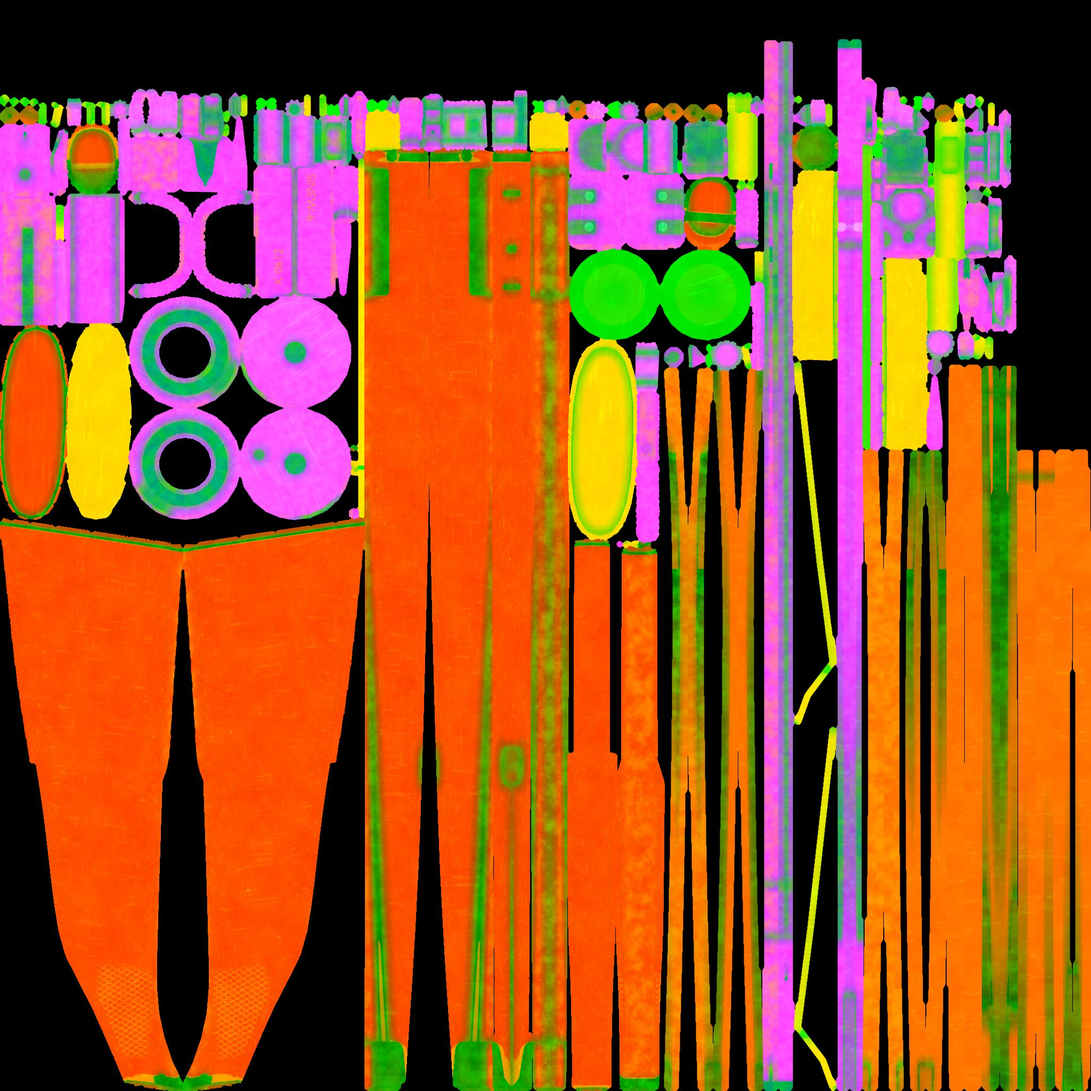
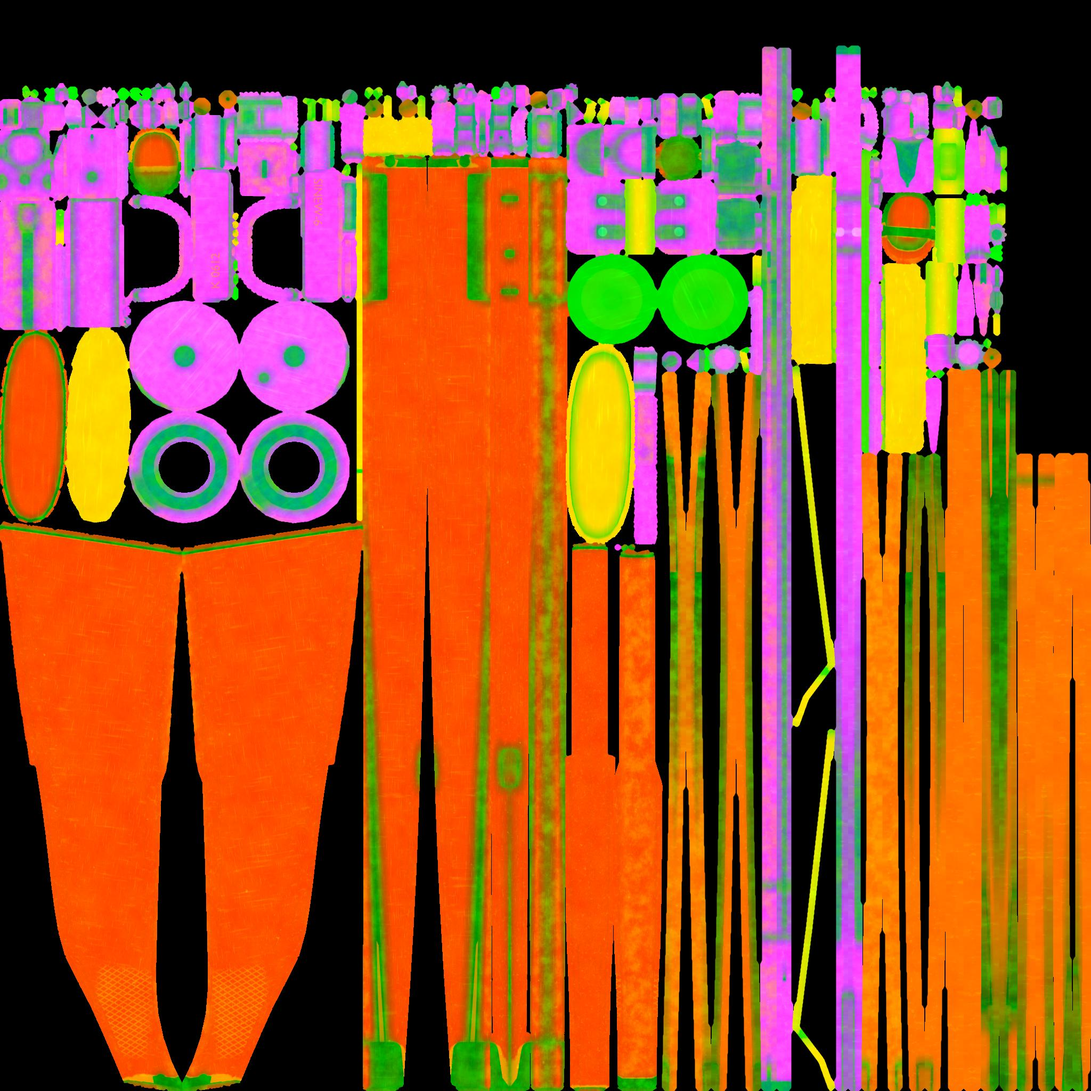
Strzelnica FPP: przyrządy celownicze SINEW-6 i PELLET-8
Wersja 1.7.345 (RANGE_FPS_PLAN.md §12, ciąg dalszy).

- gun_proc.py: PELLET-8 — szczerbinka z osłonami na komorze i muszka na
  końcu osłony termicznej (kulka na wylocie leżała pod osłoną); SINEW-6 —
  wieżyczka ze szczerbinką na mechanizmie i muszka na głowicy, nad płetwami
  harpuna i cięgnami.
- Modele przebudowane (gun_proc_all.sh srut8 ciegno6), tekstury z kompresją
  VRAM (tex_vram.py), .json z linią przyrządów.
- --rangetest 70/70 (przyrządy 7 broni), test_aim_points, test_proportions,
  test_weapons.sh OK.

diff --git a/prototype/tools/gun_proc.py b/prototype/tools/gun_proc.py
@@ -1061,6 +1061,11 @@ def build_srut8():
         box("cuff", 158.0, 248.0, bot(203.0) - 3.0, top(203.0) + 3.0, 23.0, cuff, bv=2.0, r=8.0)
         for i in range(4):
             shell("shell_r", (-33.0, -50.0 - i * 23.0), 170.0, red, brass, axis="X")
+        # przyrządy (strzelnica FPP): osłona zasłania kulkę na wylocie, więc szczerbinka z osłonami na komorze i muszka na końcu osłony lufy
+        box("sight_base", 500.0, 524.0, 12.0, 22.0, 6.0, blued, bv=0.8, r=2.0)
+        for sy in (-1.0, 1.0):
+            box("sight_post", 506.0, 518.0, 21.0, 29.0, 1.3, blued, bv=0.3, seg=1, y=sy * 4.0)
+        prism("fs_post", fillet([(988.0, 12.0), (1004.0, 12.0), (999.0, 24.0, 1.2), (993.0, 24.0, 1.2)]), -1.6, 1.6, small, bv=0.3, seg=1)
     return _shotgun({"pre": "p8", "steel": GREY, "wood": ((0.014, 0.006, 0.004), (0.06, 0.024, 0.011)), "muzzle": 1100.0, "mag_end": 1040.0,
                      "length": 1.1, "text_l": "PELLET-8", "text_r": "HD 8 / 70", "extras": extras})
 
@@ -1656,6 +1661,11 @@ def build_ciegno6():
     box("mech", 372.0, 454.0, -10.0, 12.0, 16.2, inox, bv=0.8, r=2.5)
     trig("trigger", 388.0, 448.0, -35.0, inox, small)
     revolve("safety", [(-17.5, 0.0), (-17.5, 3.5), (17.5, 3.5), (17.5, 0.0)], (364.0, -12.0), brass, axis="Y", seg=12, bv=0.4)
+    # przyrządy (strzelnica FPP): wieżyczka ze szczerbinką na mechanizmie i muszka na głowicy — linia nad płetwami harpuna i cięgnami
+    box("sight_base", 372.0, 390.0, 11.0, 27.0, 5.0, inox, bv=0.6, r=2.0)
+    for sy in (-1.0, 1.0):
+        box("sight_post", 377.0, 387.0, 26.0, 33.0, 1.2, inox, bv=0.3, seg=1, y=sy * 3.6)
+    prism("fs_post", fillet([(948.0, 24.0), (962.0, 24.0), (958.0, 31.0, 1.2), (952.0, 31.0, 1.2)]), -1.5, 1.5, inox, bv=0.3, seg=1)
     # harpun: pręt z płetwami zaczepów, ostrze i ruchomy zadzior; głowica z otworami cięgien
     cyl("shaft", 392.0, 1070.0, 3.6, (0.0, 13.0), inox, seg=10, bv=0.0)
     for cx in (470.0, 524.0):

diff --git a/CHANGELOG.md b/CHANGELOG.md
@@ -385,3 +385,4 @@ wystarcza im historia gita. Serie PR-ów prowadzone własnym planem (np. `AUDIO_
 | 1.7.342 | 2026-10-22 | **Strzelnica FPP: papierowa tarcza, ruchomy cel, sąsiedzi na stanowiskach, łuk bełtu.** Ciąg dalszy etapu 3 planu `RANGE_FPS_PLAN.md` (§10). Papier na 25 m zostawia przestrzeliny (kule, śrut, szyna, bełt) i mierzy grupę serii: rozrzut w cm i MOA, rozciągnięcie w pionie — po 3 s przerwy następna seria zaczyna się na czystym arkuszu; wyniki na tabliczce przy papierze i na tablicy nad linią ognia. Wózek z pomarańczową blachą jeździ w poprzek tunelu na 22 m: kula trafia tam, gdzie wózek jest w chwili jej przylotu, więc wolny pocisk wymaga wyprzedzenia; liczy trafienia i próby. Inni gracze na strzelnicy stoją na swoich stanowiskach (albo najbliższych wolnych) — widać ich nad niższymi przegrodami, celują i klękają jak oni, ich strzał błyska i słychać go z ich miejsca. Bełt SINEW-6 leci łukiem (33 m/s, prawdziwe g) i wbija się w ściany. |
 | 1.7.343 | 2026-10-22 | **Strzelnica FPP: przyrządy z modeli, ćwiczenie z przeładowaniem, rekordy osobiste.** Reszta etapu 2 planu `RANGE_FPS_PLAN.md` (§11). `gun_proc.py` zapisuje w `gun_<klucz>.json` linię przyrządów (`sight_rear` / `sight_front`: dno szczerbinki i wierzch muszki, kolimator — oś tuby, noktowizor — oś tubusu, `sight_optic`), a przy celowaniu broń ustawia się tak, że ta linia leży w osi kamery (M-83, SPREAD-12, P-83; dotąd linia nad najwyższym punktem modelu). WRATH-4 i FALCON-6 mają zamknięte tuby optyki, więc pod koniec podnoszenia broni model gaśnie, a w kadrze jest obraz przez optykę (kolimator z czerwoną kropką, zielony ziarnisty noktowizor z siatką). Ćwiczenie „przeładowanie” (klawisz [X], pad D-pad ↑): 4 blachy, w magazynku na starcie 2 naboje (przeładowanie przed pierwszą blachą nic nie daje), serwer wymaga czasu na przeładowanie; tablica drużyny ma osobne części na ćwiczenia (tablica sprzed tej wersji to „5 blach”). Rekordy osobiste per broń w profilu gracza: czas obu ćwiczeń i grupa 5 strzałów na papierze (MOA), na tablicy w tunelu z dopiskiem „REKORD OSOBISTY”. Dev `--rangeex=reload`. Test `--rangetest` 68/68 |
 | 1.7.344 | 2026-10-22 | **Strzelnica FPP: porównanie grup na papierze z warunkami serii.** Bramka etapu 2 planu `RANGE_FPS_PLAN.md` (§12). Każda seria na papierze zapamiętuje warunki: broń, obsługę (REALISTIC / CLASSIC), temperaturę lufy przy pierwszej i ostatniej przestrzelinie, oparcie przy ławie (tak / nie / częściowo). Nowa tablica PAPIER obok tablicy ćwiczeń nad linią ognia pokazuje w dwóch kolumnach bieżącą i poprzednią grupę (rozrzut w MOA, liczba przestrzelin, rozciągnięcie w pionie, warunki) i różnicę rozrzutu; rekord osobisty grupy przeniesiony pod nią. Zmiana broni albo obsługi zaczyna nową serię od razu, bez czekania 3 s. Test `--rangetest` 70/70 |
+| 1.7.345 | 2026-10-22 | **Strzelnica FPP: przyrządy celownicze SINEW-6 i PELLET-8.** `gun_proc.py`: PELLET-8 dostaje szczerbinkę z osłonami na komorze i muszkę na końcu osłony termicznej (kulka na wylocie leżała pod osłoną), SINEW-6 — wieżyczkę ze szczerbinką na mechanizmie spustowym i muszkę na głowicy, nad płetwami harpuna i cięgnami. Modele przebudowane (wypiek PBR, tekstury z kompresją VRAM), w `.json` linia przyrządów — przy celowaniu na strzelnicy obie bronie mają szczerbinkę i muszkę w osi kamery zamiast linii nad modelem. Test `--rangetest` 70/70 (przyrządy 7 broni) |

diff --git a/RANGE_FPS_PLAN.md b/RANGE_FPS_PLAN.md
@@ -206,7 +206,7 @@ Test `--rangetest` 54/54. Zostaje: ręce FPP (lepsze narzędzia, §8), etap 2 (p
 Dev: `--rangeex=reload` (ćwiczenie na starcie `--range3d`). Test `--rangetest` 68/68 (przyrządy w osi kamery dla 5 broni, optyka WRATH-4 /
 FALCON-6, rekordy w profilu i ich zapis, ćwiczenie z przeładowaniem: blachy, przycięty magazynek, przebieg z przeładowaniem na tablicy
 przeładowania, walidacja serwera, rekord grupy). Zostaje: ręce FPP (lepsze narzędzia, §8); przyrządy broni, które ich nie mają w modelu
-(SINEW-6, PELLET-8) — do dodania w `gun_proc.py` przy ich przebudowie.
+(SINEW-6, PELLET-8) — do dodania w `gun_proc.py` przy ich przebudowie (zrobione w 1.7.345).
 
 ## 12. Bramka etapu 2 — porównanie grup (2026-10-22, 1.7.344, gałąź `feat/range-compare`)
 
@@ -223,3 +223,7 @@ Pułapki: Label3D obcina spacje na początku wiersza (pusta pierwsza komórka ta
 obrócona do stanowiska dawała skośne wiersze przy patrzeniu w tunel — stoi równolegle do linii ognia. Dev: `--shotrangeboard` wypełnia też
 przykładowe serie na papierze. Test `--rangetest` 70/70 (dwie serie: REALISTIC z oparciem przy ciepłej lufie, potem CLASSIC bez oparcia przy
 gorącej — nowa seria od razu po zmianie obsługi, warunki i wiersze tablicy).
+
+Ciąg dalszy (1.7.345, gałąź `feat/range-sights2`): przyrządy SINEW-6 i PELLET-8 w `gun_proc.py` (PELLET-8: `sight_base` + `sight_post` na komorze,
+`fs_post` na końcu osłony lufy; SINEW-6: wieżyczka `sight_base` + `sight_post` na mechanizmie, `fs_post` na głowicy), modele przebudowane.
+Przyrządy z modelu ma teraz 7 broni; bez nich zostają LR-7, HKM-9 i SPECTER-1 (promień, płomień, szyna — linia nad modelem).
